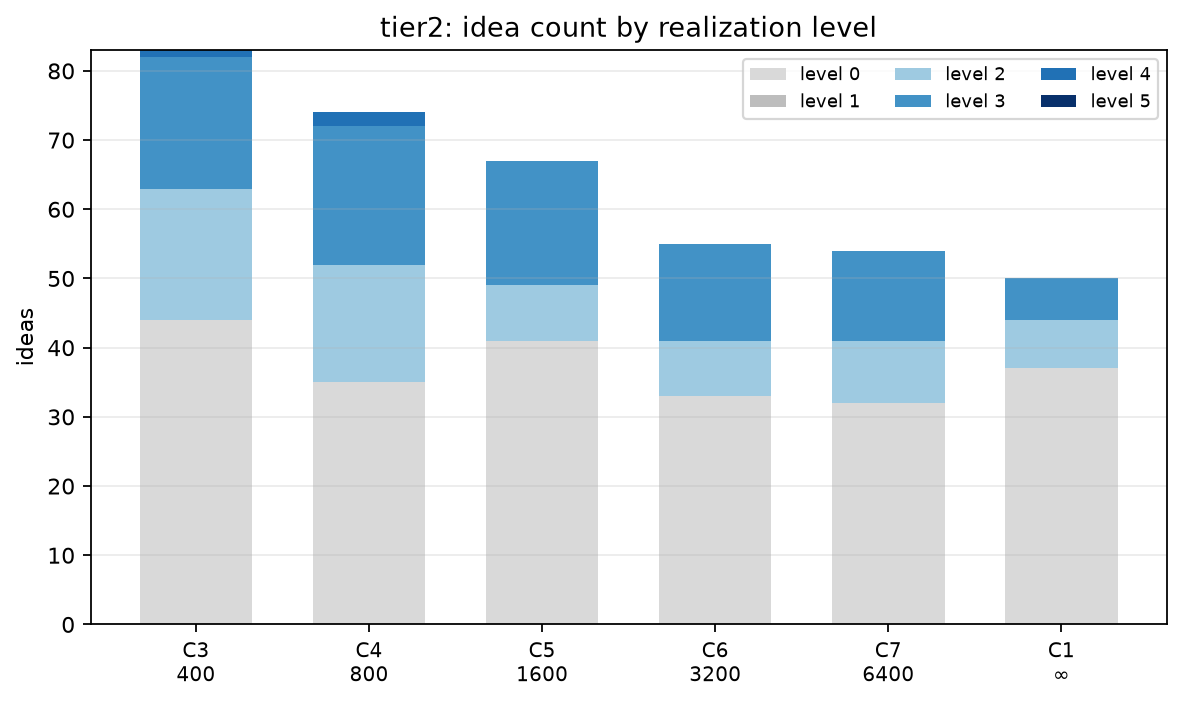
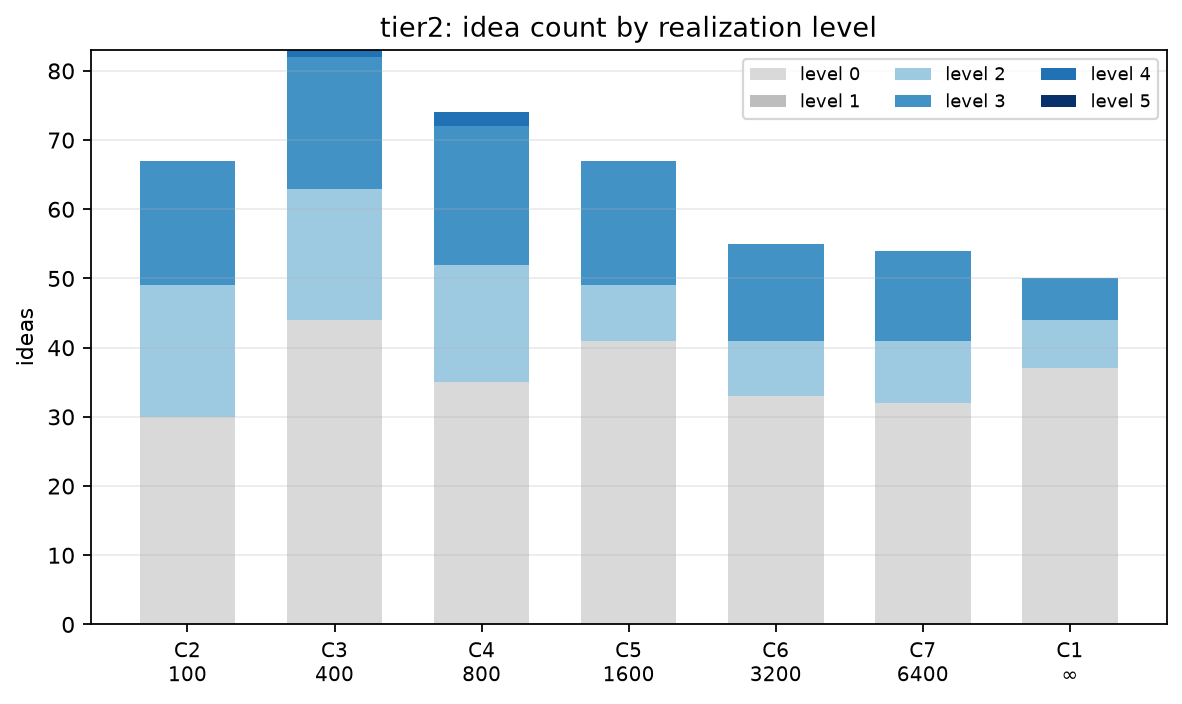
paper: C2 (m=100) tops the dial — narrative revised to 'narrower is better'; no-search ablation added (search = throttle, not quality source)

diff --git a/paper/main.tex b/paper/main.tex
@@ -36,11 +36,13 @@ LLM judge on a six-level scale across three venue-recognition tiers
 specific problem''). On a
 16{,}208-node network built from NeurIPS, ICLR, ICML, and AAAI papers
 (2020--2024), we manipulate a single \emph{specialization dial}: the number
-of corpus papers an agent is allowed to read, from 400 up to the whole
-corpus. We find (i) an inverted-U in per-idea anticipation accuracy peaking
-at a scope of 800 papers---a coherent sub-area, not one topic---with
-unrestricted generalists strictly worst on every tier; (ii) idea production
-falls monotonically as scope widens; (iii) team size is a pure throughput
+of corpus papers an agent is allowed to read, from 100 up to the whole
+corpus. We find (i) anticipation accuracy \emph{rises as reading
+narrows}: the tightest scope---100 papers, the inner core of one
+topic---is best on every tier (tier-1 accuracy 51\% vs.\ 20\% for
+unrestricted generalists), and every scoped condition beats the
+generalists; (ii) idea production peaks at a mid-narrow scope and falls
+as reading widens; (iii) team size is a pure throughput
 knob: per-idea accuracy is flat from 10 to 150 agents while absolute hits
 scale linearly, because agents are effectively independent---across 10{,}300
 actions we observe a single cross-agent citation of a generated idea.
@@ -92,25 +94,28 @@ Our central manipulation is deliberately minimal: a single
 \emph{specialization dial}. Each ``specialist'' agent draws one topic from
 a 50-topic pool and may only \emph{read} (search, browse, jump within, and
 hence cite) the $m$ corpus papers nearest its topic anchor in embedding
-space, with $m \in \{400, 800, 1600, 3200, 6400\}$; writing is always
-unconstrained. Unrestricted generalists provide the $m=\infty$ endpoint. A
+space, with $m \in \{100, 400, 800, 1600, 3200, 6400\}$; writing is
+always unconstrained. Unrestricted generalists provide the $m=\infty$ endpoint. A
 second manipulation varies team size $N \in \{10, 50, 100, 150\}$ at fixed
 per-agent interaction depth.
 
 \textbf{Findings.}
 \begin{itemize}
-\item \textbf{An inverted-U in idea quality over reading scope
-  (Sec.~\ref{sec:dial}).} Per-idea anticipation accuracy peaks at $m=800$
-  (tier-1 acc@$\geq$2 of 41\% vs.\ 20\% for generalists), and every scoped
-  condition beats the unrestricted generalists on every tier. Measured
-  region purity shows $m=800$ is a coherent \emph{sub-area neighborhood}
-  (own-topic share only 5--60\%), suggesting the sweet spot is ``focused
-  but not starved'': narrow enough to force depth, wide enough to contain
-  recombination material.
-\item \textbf{Quantity falls monotonically with scope
-  (Sec.~\ref{sec:dial}).} Narrow readers commit to ideas sooner and
-  produce more of them (83 at $m=400$ vs.\ 50 for generalists over the
-  same 80 rounds); generalists spend their actions wandering and curating.
+\item \textbf{Idea quality rises as reading narrows
+  (Sec.~\ref{sec:dial}).} Per-idea anticipation accuracy grows almost
+  monotonically as scope shrinks, and the narrowest scope wins: at
+  $m{=}100$---a region \emph{smaller} than the median natural topic
+  (228 papers), i.e., one topic's inner core---tier-1 acc@$\geq$2
+  reaches 51\% vs.\ 20\% for generalists, with the best mean
+  realization level in every tier. Every scoped condition beats the
+  unrestricted generalists; the pre-registered fear that very narrow
+  scopes would starve agents of recombination material did not
+  materialize.
+\item \textbf{Quantity peaks at mid-narrow scope
+  (Sec.~\ref{sec:dial}).} Scoped readers commit to ideas sooner and
+  produce more of them (83 at $m{=}400$ vs.\ 50 for generalists over
+  the same 80 rounds; 67 at $m{=}100$); generalists spend their actions
+  wandering and curating.
 \item \textbf{Team size is a throughput knob, not a quality knob
   (Sec.~\ref{sec:scaling}).} From $N=10$ to $N=150$ generalists at fixed
   depth, per-idea accuracy is flat (21--28\%) while absolute hits grow
@@ -210,8 +215,9 @@ A specialist draws one topic from a pool of 50 corpus-derived subfields
 in embedding space (an equal-mass region; the radius adapts per topic).
 Reading, searching, jumping, \emph{and citing} are confined to this
 region---citing means having read---while the content of generated ideas
-is unconstrained. We sweep $m \in \{400, 800, 1600, 3200, 6400\}$
-(conditions C3--C7, numbered by ascending scope); unrestricted generalists are C1 ($m=\infty$). All
+is unconstrained. We sweep $m \in \{100, 400, 800, 1600, 3200, 6400\}$
+(conditions C2--C7, numbered by ascending scope); unrestricted
+generalists are C1 ($m=\infty$). All
 conditions use $N{=}10$ agents, 80 rounds, and the same seed, so topic
 draws are identical across the sweep and only the radius varies.
 
@@ -262,8 +268,9 @@ realization level.}
  & \textbf{scope $m$} & \textbf{ideas} & \textbf{tier-1 acc (hits) / mean} &
  \textbf{tier-2 acc / mean} & \textbf{tier-3 acc / mean} \\
 \midrule
+C2 & 100   & 67 & \textbf{51\% (34) / 1.24} & \textbf{55\%} (37) / 1.37 & 79\% (53) / 2.13 \\
 C3 & 400   & \textbf{83} & 36\% (30) / 0.89 & 47\% (39) / 1.19 & \textbf{89\% (74)} / \textbf{2.48} \\
-C4 & 800   & 74 & \textbf{41\% (30) / 1.04} & \textbf{53\% (39) / 1.38} & 84\% (62) / 2.43 \\
+C4 & 800   & 74 & 41\% (30) / 1.04 & 53\% (39) / \textbf{1.38} & 84\% (62) / 2.43 \\
 C5 & 1600  & 67 & 30\% (20) / 0.78 & 39\% (26) / 1.04 & 60\% (40) / 1.60 \\
 C6 & 3200  & 55 & 27\% (15) / 0.69  & 40\% (22) / 1.05 & 73\% (40) / 2.02 \\
 C7 & 6400  & 54 & 30\% (16) / 0.74  & 41\% (22) / 1.06 & 78\% (42) / 2.22 \\
@@ -288,14 +295,17 @@ of realized ideas (level $\geq 2$) per tier.}
 
 Table~\ref{tab:dial} and Figure~\ref{fig:dial} give the core result.
 
-\textbf{A mild inverted-U peaking at a sub-area scope.} Tier-1 accuracy
-runs 36\% $\to$ \textbf{41\%} $\to$ 30\% $\to$ 27\% $\to$ 30\% $\to$ 20\%
-as scope widens; mean realization level tracks the same shape. The
-$m{=}800$ condition leads on rate and on tier-1/2 mean level, and ties
-$m{=}400$ on absolute tier-1 hits. Both the narrow side (fewer recombination options; topics
-with semantically diffuse regions produced agents with zero output) and
-the broad side (unfocused wandering) underperform the sub-area
-neighborhood.
+\textbf{Narrower is better.} Tier-1 accuracy runs \textbf{51\%}
+$\to$ 36\% $\to$ 41\% $\to$ 30\% $\to$ 27\% $\to$ 30\% $\to$ 20\% as
+scope widens from 100 papers to the whole corpus; mean realization
+level tracks the same shape in every tier. The narrowest scope
+($m{=}100$, smaller than the median natural topic of 228 papers) is
+best on accuracy and mean level in tiers 1--2 and on absolute tier-1
+hits (34), refuting the pre-registered expectation of material
+starvation at the narrow end; the $m{=}400$ dip below $m{=}800$ is
+within single-seed noise. Broad scopes underperform throughout
+(unfocused wandering; a semantically diffuse topic region produced an
+agent with zero output).
 
 \textbf{Constraint beats freedom everywhere.} Every scoped condition
 dominates the unrestricted generalists on every tier, by rate and by
@@ -318,8 +328,9 @@ quality drifts over the run---and no curve saturates by round 80.}
 \label{fig:accum}
 \end{figure}
 
-\textbf{Narrow readers ship; broad readers browse.} Idea production is
-strictly monotone in scope (83, 74, 67, 55, 54, 50), and
+\textbf{Narrow readers ship; broad readers browse.} Idea production
+peaks at $m{=}400$ and falls as scope widens (67, 83, 74, 67, 55, 54,
+50 for $m$ = 100 through $\infty$), and
 Figure~\ref{fig:accum} shows why: after a comparable exploration onset
 (first team idea between rounds 8 and 17; median personal onset round
 21--24), narrow scopes settle into a faster and steadier production
@@ -339,10 +350,13 @@ are preceded by the \emph{same volume} of reading ($\sim$10.5 reads);
 what differs is its composition. Ideas realized in recognized venues
 (tier~1) grew out of windows with more search-driven reads (6.27
 vs.\ 5.45), fewer link-driven reads (3.23 vs.\ 3.82), fewer jumps, and
-almost no re-reading of the agent's own output. This is the per-idea
-mirror of the structural ablation in Sec.~\ref{sec:noedges}: material
-found by directed semantic search feeds anticipation; material found by
-following citation links does not.
+almost no re-reading of the agent's own output. Within the standard regime, then, search-fed material predicts
+realization while link-fed material does not---consistent with the
+edge-removal ablation of Sec.~\ref{sec:noedges}. The search-removal
+ablation there adds a caution against a purely causal reading: without
+search, agents recover unchanged per-idea accuracy by other routes, so
+search-fed reading marks the deliberative mode rather than being the
+sole conduit of quality.
 
 \begin{table}[t]
 \caption{Provenance of the reading that precedes each generated idea:
@@ -426,11 +440,11 @@ collaboration effects---and the natural next intervention.
 \label{sec:noedges}
 
 \begin{table}[t]
-\caption{Exploration-channel ablations: identical to C1 (10 generalists,
-80 rounds, same seed and corpus) except the initial network carries no
-citation edges (top) or random jumps are disabled (middle). Removing
-wandering channels improves output without hurting accuracy; removing
-the citation structure improves both.}
+\caption{Navigation-channel ablations: identical to C1 (10 generalists,
+80 rounds, same seed and corpus) except one channel is removed---the
+initial citation edges, random jumps, or semantic search. Removing any
+channel increases output without hurting per-idea accuracy; the full
+action set is the \emph{worst} configuration.}
 \label{tab:noedges}
 \begin{center}\small
 \begin{tabular}{lrccc}
@@ -438,9 +452,10 @@ the citation structure improves both.}
  & \textbf{ideas} & \textbf{tier-1 acc (hits) / mean} &
  \textbf{tier-2 acc / mean} & \textbf{tier-3 acc / mean} \\
 \midrule
-no edges & 60 & \textbf{37\% (22) / 0.93} & \textbf{43\% / 1.07} & \textbf{75\% / 1.97} \\
-no jumps & \textbf{63} & 24\% (15) / 0.62 & 27\% / 0.71 & 73\% / 1.92 \\
-C1 (full) & 50 & 20\% (10) / 0.50 & 26\% / 0.64 & 62\% / 1.68 \\
+no edges & 60 & \textbf{37\% (22) / 0.93} & \textbf{43\%} (26) / \textbf{1.07} & 75\% (45) / 1.97 \\
+no jumps & 63 & 24\% (15) / 0.62 & 27\% (17) / 0.71 & 73\% (46) / 1.92 \\
+no search & \textbf{201} & 24\% (48) / 0.59 & 36\% (73) / 0.88 & \textbf{76\% (152)} / \textbf{2.00} \\
+C1 (full) & 50 & 20\% (10) / 0.50 & 26\% (13) / 0.64 & 62\% (31) / 1.68 \\
 \bottomrule
 \end{tabular}
 \end{center}
@@ -466,15 +481,24 @@ actions, adding 53 links of their own to the edgeless network---they
 rebuild structure, but by their own semantic logic rather than the
 corpus's citation logic.
 
-A companion ablation disables the other wandering channel: random jumps
-(\texttt{sample\_frontier}). The effect points the same way but is much
-smaller (Table~\ref{tab:noedges}, middle row: 63 ideas at 24\% vs.\ 50
-at 20\%)---unsurprisingly, since C1 agents only jumped $\sim$20 times
-in 800 actions. The citation neighborhood, not serendipitous jumping,
-is the dominant distractor. We caution that these are single seeded
-runs per arm (22/60 and 15/63 vs.\ 10/50 hits); the directions, the
-mean-level gaps, and the behavioral signatures are mutually consistent,
-but replication is needed before the strongest reading.
+Two companion ablations remove the other channels. Disabling random
+jumps points the same way with a smaller effect (63 ideas at 24\%
+vs.\ 50 at 20\%)---unsurprising, since C1 agents only jumped $\sim$20
+times in 800 actions. Disabling \emph{semantic search} produces the
+most dramatic behavioral shift of any intervention in this paper:
+production quadruples (201 ideas) while per-idea accuracy holds at
+24\%, yielding 48 tier-1 hits. Search is thus a \emph{throttle}, not
+the sole source of quality: it is the channel that keeps agents in
+deliberation (``keep reading'') mode, and without it they write
+prolifically from links, jumps, and parametric knowledge at unchanged
+per-idea quality. Together the three ablations give a stark summary:
+for unrestricted generalists, removing \emph{any} navigation channel
+helps, and the full action set is the worst configuration---the
+generalist's failure mode is wandering, in whichever channel permits
+it. We caution that these are single seeded runs per arm; the
+directions, the mean-level gaps, and the behavioral signatures are
+mutually consistent, but replication is needed before the strongest
+reading.
 
 \section{Analysis: how the dynamics rewrite the state}
 \label{sec:structure}
@@ -543,10 +567,10 @@ dial rather than a confound.
 Framing machine-assisted innovation as a dynamical system on an idea
 network lets us intervene on the coupling between researcher and
 knowledge structure directly. On this substrate, the operative lever on
-idea quality is \emph{how reading is situated}---a sub-area scope of
-$\sim$800 papers beats both narrower and broader diets, and any scope
-beats none---while team size sets only throughput, because today's
-agents do not yet read each other. The human citation structure itself,
+idea quality is \emph{how reading is situated}---the narrower the
+reading, the better, down to a single topic's hundred-paper core, and
+any scope beats none---while team size sets only throughput, because
+today's agents do not yet read each other. The human citation structure itself,
 scaffold of every account of cumulative science, is at best inert and at
 worst a distractor for these semantically-navigating dynamics: removing
 it outright improved both output and accuracy. The immediate frontier is
